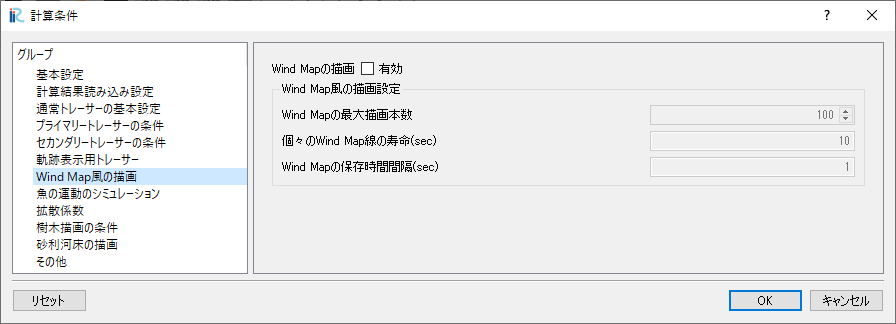
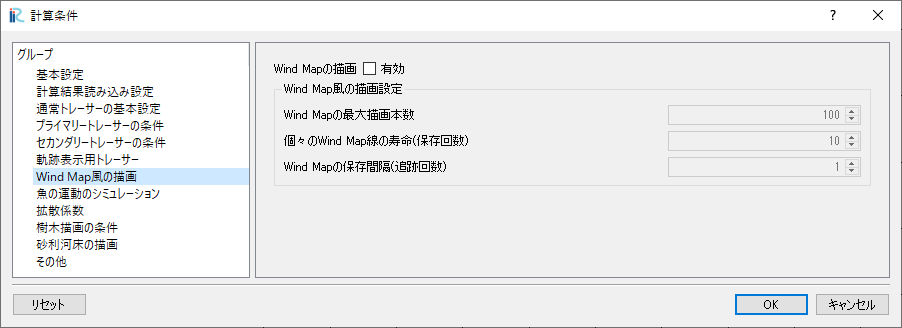
変更点を更新

diff --git a/source/02_Overview/01_Parameter.rst b/source/02_Overview/01_Parameter.rst
@@ -202,10 +202,6 @@
 | 1セル内に存在できる最大トレーサー数を指定する。
 | 既にセル内のトレーサー数がこの値に達している場合、その後移動してきたトレーサーは除去される。
 
-.. note::
-   | 現在の仕様ではトラップによって動けなくなったトレーサーの個数もセル内の個数にカウントされるため、この値が低いとトラップ箇所で最大数に達し、移動してきたトレーサーがすべて除去されるということが発生することがある。
-   | その場合はこの値を大きくすることで回避されたい。
-
 .. _移動限界水深・摩擦速度:
 
 移動限界水深(m)・移動限界摩擦速度(m/s)
@@ -362,16 +358,15 @@ Wind Mapの最大描画本数
 ------------------------------------------------------------------------------------------------------------------------
 | Wind Map風描画のためのラインを最大で何本まで描画するかを指定する。
 
-個々のWind Map線の寿命(sec)
+個々のWind Map線の寿命(保存回数)
 ------------------------------------------------------------------------------------------------------------------------
 | Wind Map風描画のためのラインの最大寿命を指定する。
 | 描画されるWind Map線はこの最大値以下のランダムな寿命で描画される。
-| なお、:math:`寿命/保存時間間隔` の余りは切り捨てられるため、割り切れる値を指定することが望ましい。
 
-Wind Map線の保存時間間隔(sec)
+Wind Mapの保存間隔(追跡回数)
 ------------------------------------------------------------------------------------------------------------------------
-| 何秒ごとにWind Map線ポリラインのノードとして現在地を保存するかを指定する。
-| なお、 :math:`保存時間間隔/追跡時間間隔` の余りは切り捨てられるため、割り切れる値を指定することが望ましい。
+| 何回の追跡ごとにWind Map線ポリラインのノードとして現在地を保存するかを指定する。
+| なお、GELATOの出力間の追跡回数を割り切れる値を指定することが望ましい。
 
 魚の運動のシミュレーション
 ========================================================================================================================

diff --git a/source/05_Update.rst b/source/05_Update.rst
@@ -233,3 +233,10 @@ Windmapの表示
 ^^^^^^^^^^^^^^^^^^^^^^^^^^^^^^^^^^^^^^^^^^^^^^^^^^^^^^^^^^^^^^^^^^^^^^^^^^^^^^^^^^^^^^^^^^^^^^^^^^^^^^^^^^^^^^^^^^^^^^^^
 - 樹木・礫のポリゴンの位置が指定された水深よりも深い場合でも描画されていた不具合が修正された。
 - 樹木・礫のポリゴンが格子の範囲外に描画されていた不具合が修正された。
+
+GELATO Ver2.1での更新点
+------------------------------------------------------------------------------------------------------------------------
+GELATO Ver2.1では以下の点がVer2.0と比較して更新されている。
+
+- トラップされたトレーサーをセル内のトレーサー数にカウントせず、別途トラップされたトレーサー数としてカウントするよう仕様変更
+- Windmap風描画のラインの寿命と保存間隔を秒から軌跡追跡トレーサーと同様に回数で指定するように変更
